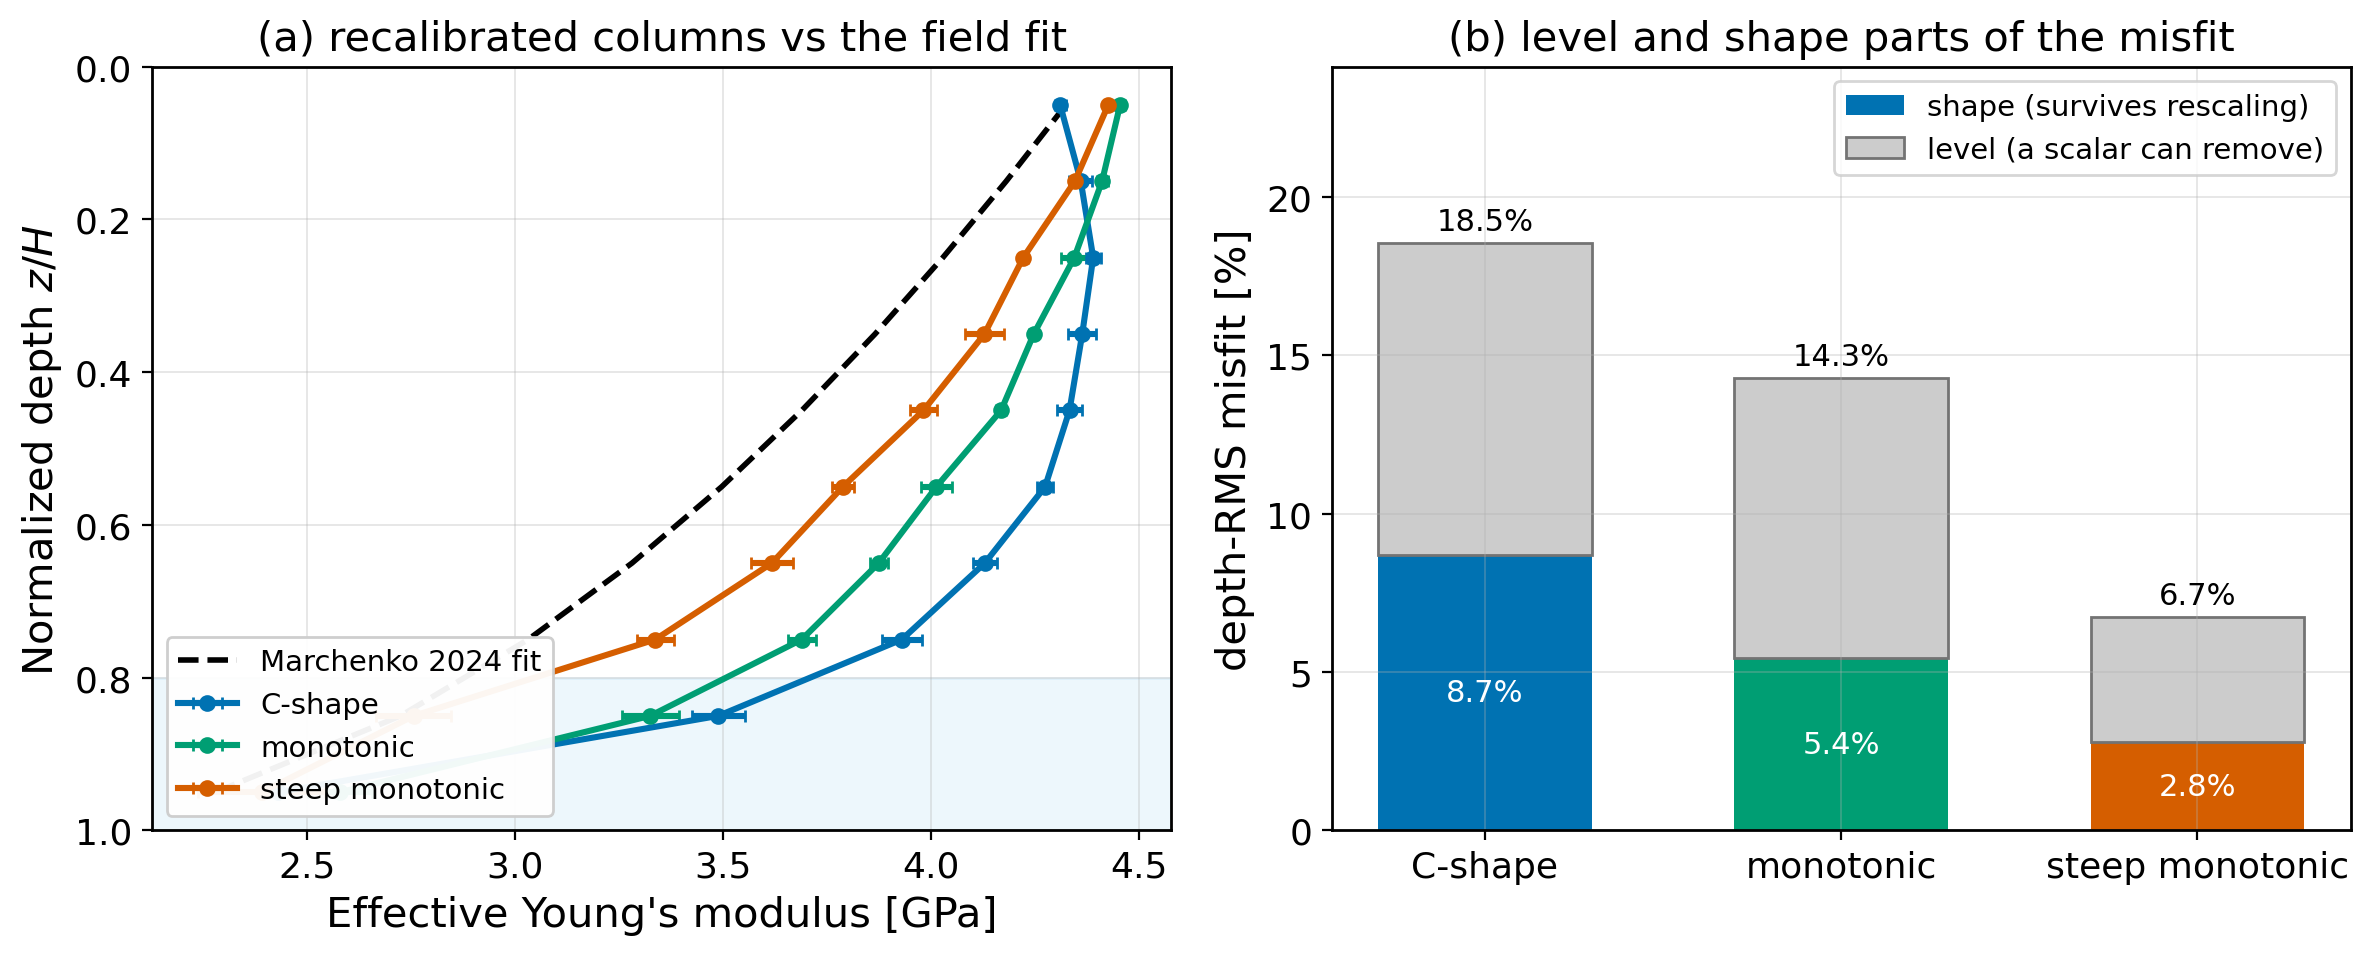
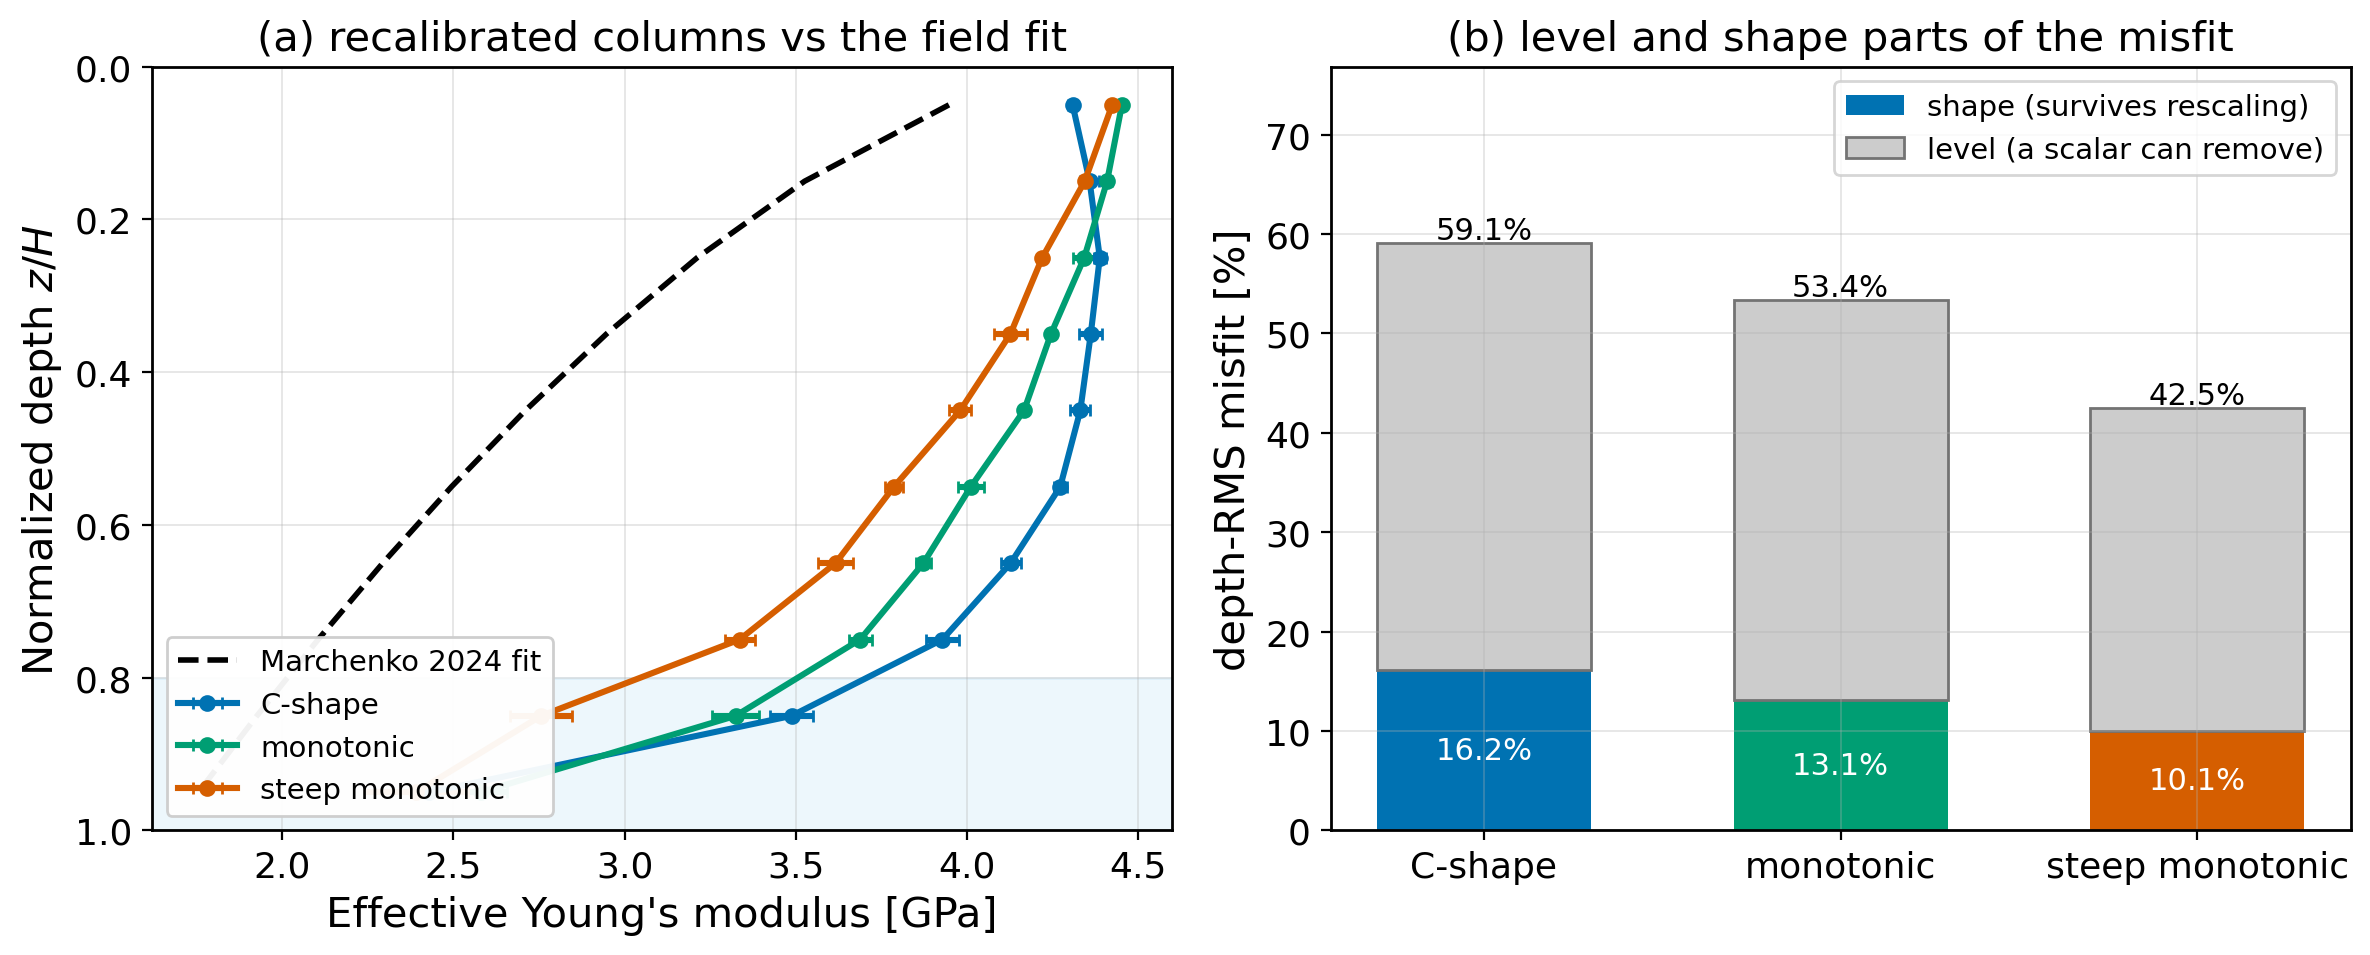
Correct the Marchenko field profile to his published Eq. (17)
The depth profile we compare against was transcribed as the complement of the
one Marchenko actually publishes. His Eq. (17) (p.11) is

    E = E0*(1 - (1-alpha)*(z/H)^n),   E0 = 4.4 GPa, alpha = 0.38, n = 0.6

whereas five files here encoded

    E = E_bot*((M-1)*(1-z/H)^0.5 + 1),  E_bot = 1.67, M = 2.63.

E_bot and M are right -- they are E0*alpha and 1/alpha -- so the parameters
came from Eq. (17), but the shape was inverted and the exponent read as 0.5
rather than 0.6. The two agree at the surface and the base and diverge
everywhere between, our version running up to 44% stiff at mid-depth.

Worth recording what that profile actually is, because the manuscript
describes it as the vibrating-beam result and it is not. The beams give
whole-beam moduli (his Fig. 19). The profile is computed from *measured* brine
content via his empirical formula (5), itself a correlation from 25 three-point
bending tests elsewhere, and then fitted with a Kerr & Palmer (1972) form. His
brine content comes from Frankenstein-Garner -- the same phase relation this
model uses -- so the shape comparison is less independent than stated.

Fixed in plot_marchenko.py, plot_marchenko_match.py, plot_field_decomp.py,
analyze_studies.py and verify_column.py, and the three figures regenerated.
verify_column's expectations are updated to the corrected values, so the
harness now disagrees with the manuscript until the text is updated; that is
[…]

diff --git a/analysis/verify_column.py b/analysis/verify_column.py
@@ -32,10 +32,13 @@ import numpy as np
 COLUMN = 'results_column_ensemble.csv'
 SEEDS = 'results_colseeds_all.csv'
 BEAM_FACTOR = 0.49
-OFFSET = 2.3
+# Column-mean ratio of the uncalibrated RVE column to the field profile.
+# 2.3 before the Marchenko curve was corrected to his Eq. (17); 3.11 after.
+OFFSET = 3.11
 
-# Marchenko (2024) vibrating-beam fit, as used by plot_marchenko_match.py
-M_EBOT, M_M, M_N = 1.67, 2.63, 0.5
+# Marchenko (2024) Eq. (17), p.11, as used by plot_marchenko_match.py.
+# E0 is the surface modulus and alpha the base/surface ratio.
+M_E0, M_ALPHA, M_N = 4.4, 0.38, 0.6
 
 # (label, quoted value, tolerance). Section numbers refer to the manuscript.
 QUOTED = {
@@ -65,10 +68,13 @@ QUOTED = {
     'alpha':            (0.55, 0.005),
     'grad_ratio':       (1.18, 0.005),
     'k7_alpha':         (1.32, 0.005),
-    'residual':         (1.94, 0.005),
-    'matrix_factor':    (0.52, 0.005),
-    'offset_top':       (2.0,  0.05),
-    'offset_max':       (2.6,  0.05),
+    # These five moved when the Marchenko profile was corrected to his Eq. (17)
+    # (see the note on OFFSET above). They are the corrected values; the
+    # manuscript still carries the pre-correction ones.
+    'residual':         (2.63, 0.005),
+    'matrix_factor':    (0.38, 0.005),
+    'offset_top':       (2.22, 0.05),
+    'offset_max':       (3.78, 0.05),
 }
 
 
@@ -183,7 +189,7 @@ def main():
     got['matrix_factor'] = 1.0 / got['residual']
 
     # ---- offset against the vibrating-beam fit ---------------------------
-    Em = M_EBOT * ((M_M - 1) * (1 - z) ** M_N + 1.0)
+    Em = M_E0 * (1.0 - (1.0 - M_ALPHA) * z ** M_N)
     ratio = Eeff / Em
     got['offset_top'] = ratio[0]
     got['offset_max'] = ratio.max()

diff --git a/analysis/analyze_studies.py b/analysis/analyze_studies.py
@@ -30,11 +30,14 @@ def load(path):
             df[c] = num(df[c])
     return df
 
-# ---- Marchenko (2024) vibrating-beam fit ----------------------------------
+# ---- Marchenko (2024) through-thickness profile ---------------------------
+# Eq. (17) of Marchenko (2024), p.11: a Kerr & Palmer (1972) form fitted to
+# E(z) computed from *measured* brine content via his empirical formula (5).
+# It is not the vibrating-beam moduli themselves.  E0 is the surface value and
+# alpha the base/surface ratio, so E_bot = E0*alpha = 1.67 GPa.
 def marchenko(depth_from_top):
-    Ebot, M, n = 1.67, 2.63, 0.5
-    zeta = 1.0 - depth_from_top          # normalized height above base
-    return Ebot * ((M - 1) * zeta**n + 1.0)
+    E0, alpha, n = 4.4, 0.38, 0.6
+    return E0 * (1.0 - (1.0 - alpha) * depth_from_top**n)
 
 # ===========================================================================
 def do_morphology():

diff --git a/analysis/plot_marchenko.py b/analysis/plot_marchenko.py
@@ -7,10 +7,12 @@ d = np.array([int(r[5:]) for r in df.run_id])/100.0     # depth from top, 0..1
 Eeff = df.E_eff.values/GPa
 Ez, Exy = df.E_z.values/GPa, 0.5*(df.E_x.values+df.E_y.values)/GPa
 
-# Marchenko (2024) fit
-Ebot, M, n = 1.67, 2.63, 0.5
-zeta = 1.0 - d                       # normalized height from bottom
-E_march = Ebot*((M-1)*zeta**n + 1.0)
+# Marchenko (2024) Eq. (17), p.11 -- a Kerr & Palmer (1972) form fitted to
+# E(z) computed from measured brine content via his empirical formula (5),
+# not to the vibrating-beam moduli themselves.  d is depth from the top.
+E0, alpha, n = 4.4, 0.38, 0.6
+E_march = E0*(1.0 - (1.0 - alpha)*d**n)
+M = 1.0/alpha                        # surface/base ratio, for the caption
 
 k = np.mean(Eeff/E_march)            # mean overprediction factor
 fig, ax = plt.subplots(1,2, figsize=(13,6))

diff --git a/analysis/plot_field_decomp.py b/analysis/plot_field_decomp.py
@@ -32,8 +32,9 @@ import figstyle as fs
 fs.apply()
 import matplotlib.pyplot as plt
 
-# Marchenko (2024) first-year vibrating-beam fit, as used throughout.
-M_EBOT, M_M, M_N = 1.67, 2.63, 0.5
+# Marchenko (2024) Eq. (17): the fitted through-thickness profile, as used
+# throughout.  E0 is the surface modulus, alpha the base/surface ratio.
+M_E0, M_ALPHA, M_N = 4.4, 0.38, 0.6
 
 CAMPAIGNS = [('MSEED', 'C-shape', fs.BLUE),
              ('NSEED', 'monotonic', fs.GREEN),
@@ -58,7 +59,7 @@ def prof(pref, path='results_fieldseeds.csv'):
 
 def main():
     z = np.arange(0.05, 1.0, 0.1)
-    Em = M_EBOT * ((M_M - 1) * (1 - z) ** M_N + 1.0)
+    Em = M_E0 * (1.0 - (1.0 - M_ALPHA) * z ** M_N)
 
     fig, ax = plt.subplots(1, 2, figsize=(12.2, 5.0))
 

diff --git a/analysis/plot_marchenko_match.py b/analysis/plot_marchenko_match.py
@@ -5,10 +5,10 @@ new = pd.read_csv("results_marchenko.csv").sort_values("run_id").reset_index(dro
 d = np.array([int(r[5:]) for r in new.run_id])/100.0
 Eold, Enew = old.E_eff.values/GPa, new.E_eff.values/GPa
 
-Ebot, M, n = 1.67, 2.63, 0.5
-zeta = 1.0 - d
-E_march = Ebot*((M-1)*zeta**n + 1.0)
-zz=np.linspace(0.001,1,200); E_march_c = Ebot*((M-1)*zz**n+1.0); d_c=1-zz
+# Marchenko (2024) Eq. (17), p.11; d is depth from the top.
+E0, alpha, n = 4.4, 0.38, 0.6
+E_march = E0*(1.0 - (1.0 - alpha)*d**n)
+d_c = np.linspace(0.0, 1.0, 200); E_march_c = E0*(1.0 - (1.0 - alpha)*d_c**n)
 
 rms = np.sqrt(np.mean((Enew-E_march)**2))
 rms_pct = 100*np.sqrt(np.mean(((Enew-E_march)/E_march)**2))
